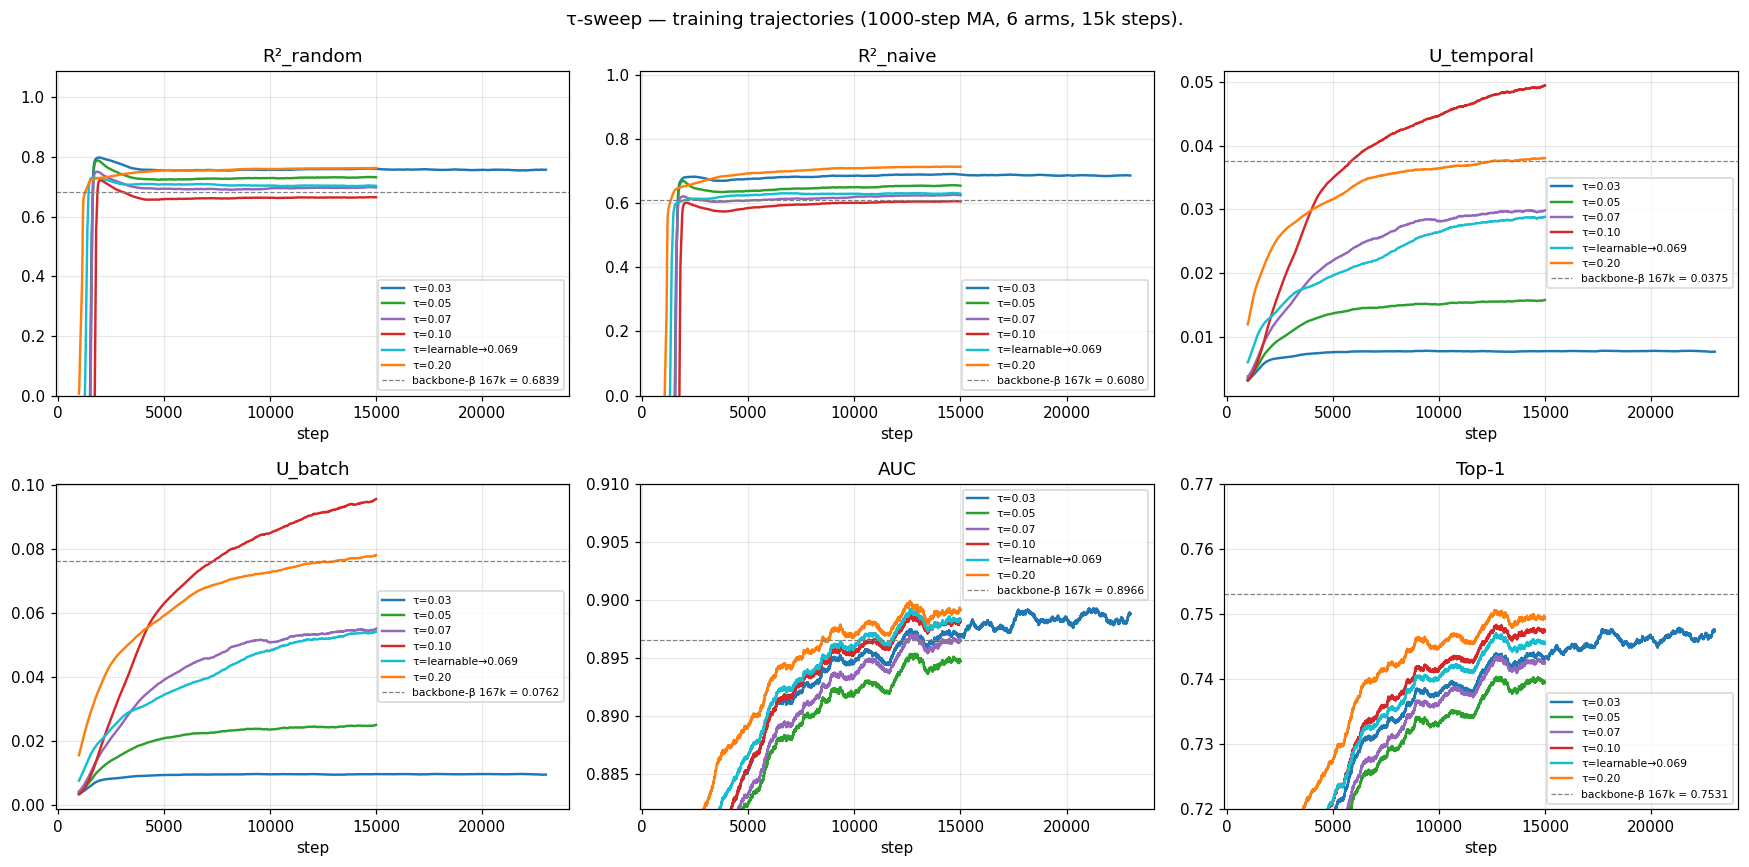
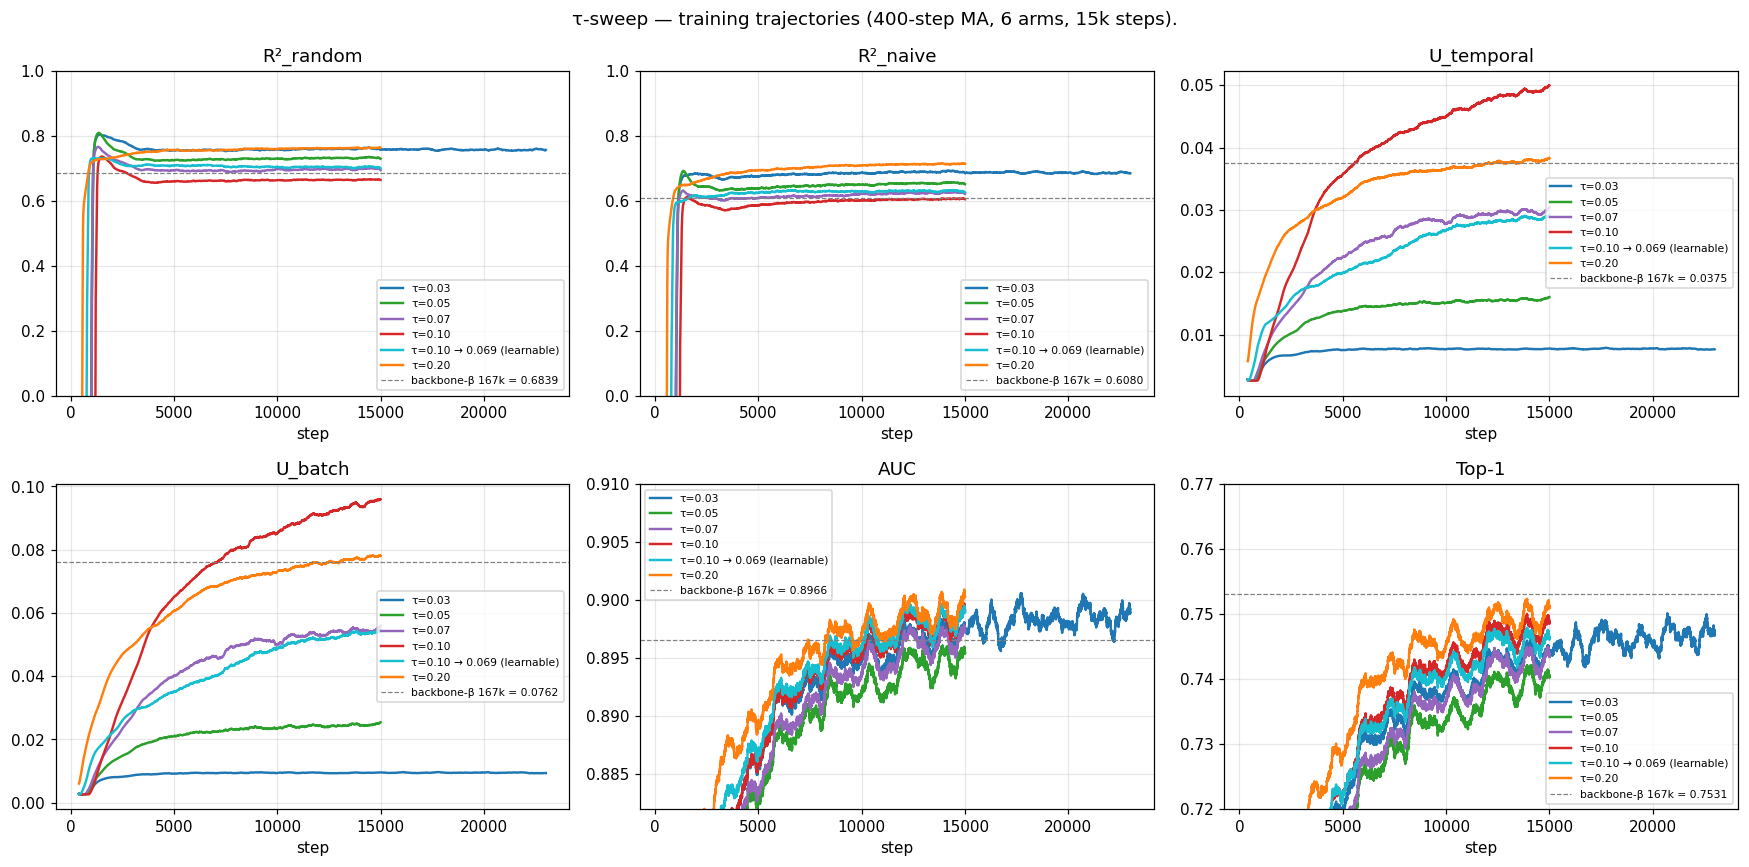
plot(tau-sweep): R² ylim [0,1], 400-step MA, init-first label for learnable τ
- `plot_tau_sweep_multisample.py`: R²_random / R²_naive panels pinned
  to ylim=(0, 1.0) (the natural / interpretable range; previous (0, None)
  left top auto-scaled too tight).
- `plot_tau_sweep_v2.py`: same R² ylim fix; trajectory smoothing reduced
  from 1000-step MA → 400-step MA so finer in-training detail is visible
  (in particular the early R²_random spike for τ=0.20).
- Both plots: learnable-τ arm relabelled `τ=0.10 → 0.069 (learnable)`
  (init value first, converged value after; was `τ=learnable→0.069`).
- CLAUDE.md (Empirical learnings): one-liner — label arms by configured
  input, not measured outcome.
- REMOTE_LAUNCH_CHECKLIST.md: one-liner — data-center host, on-demand
  price (no consumer / spot).
- RESULTS.md: caption updated 1000-step MA → 400-step MA.

«Agent Opus 4.7 (1M context) writing»

diff --git a/experiments/2026-05-08_exp_tau_sweep/scripts/plot_tau_sweep_v2.py b/experiments/2026-05-08_exp_tau_sweep/scripts/plot_tau_sweep_v2.py
@@ -39,7 +39,7 @@ ARMS = [
      SYNC / "tau_sweep_0_07_losses.csv"),
     ("τ=0.10",            "tau_sweep_0_10",           "#d62728",
      SYNC / "tau_sweep_0_10_losses.csv"),
-    ("τ=learnable→0.069", "tau_sweep_learnable_0_10", "#17becf",
+    ("τ=0.10 → 0.069 (learnable)", "tau_sweep_learnable_0_10", "#17becf",
      SYNC_LEARN / "tau_sweep_learnable_0_10_losses.csv"),
     ("τ=0.20",            "tau_sweep_0_20_v2",        "#ff7f0e",
      SYNC_V2 / "tau_sweep_0_20_v2_losses.csv"),
@@ -50,7 +50,7 @@ BETA = dict(r2_random=0.6839, r2_naive=0.6080, u_temporal=0.0375,
             u_batch=0.0762, auc=0.8966, top1=0.7531)
 
 
-def smooth(x, w=1000):
+def smooth(x, w=400):
     if len(x) < w:
         return x
     return np.convolve(x, np.ones(w) / w, mode="valid")
@@ -81,12 +81,13 @@ def main() -> None:
         if t is not None:
             traj[name] = t
 
-    # R² panels pinned to ≥ 0; AUC / Top-1 zoomed for legibility.
+    # R² panels pinned to [0, 1] (natural range). AUC / Top-1 panels zoomed
+    # for legibility.
     metrics = [
-        ("r2_random", "R²_random", (0.0, None), BETA["r2_random"]),
-        ("r2_naive",  "R²_naive",  (0.0, None), BETA["r2_naive"]),
-        ("u_temporal", "U_temporal", None,      BETA["u_temporal"]),
-        ("u_batch",   "U_batch",     None,      BETA["u_batch"]),
+        ("r2_random", "R²_random", (0.0, 1.0), BETA["r2_random"]),
+        ("r2_naive",  "R²_naive",  (0.0, 1.0), BETA["r2_naive"]),
+        ("u_temporal", "U_temporal", None,     BETA["u_temporal"]),
+        ("u_batch",   "U_batch",     None,     BETA["u_batch"]),
         ("auc",       "AUC",        (0.882, 0.910), BETA["auc"]),
         ("top1",      "Top-1",      (0.72, 0.77),   BETA["top1"]),
     ]
@@ -113,7 +114,7 @@ def main() -> None:
         ax.grid(alpha=0.3)
         ax.legend(loc="best", fontsize=7)
     fig.suptitle(
-        "τ-sweep — training trajectories (1000-step MA, 6 arms, 15k steps).",
+        "τ-sweep — training trajectories (400-step MA, 6 arms, 15k steps).",
         fontsize=12)
     fig.tight_layout()
     fig.savefig(OUT_TRAJ, dpi=110, bbox_inches="tight")

diff --git a/experiments/2026-05-08_exp_tau_sweep/scripts/plot_tau_sweep_multisample.py b/experiments/2026-05-08_exp_tau_sweep/scripts/plot_tau_sweep_multisample.py
@@ -36,19 +36,18 @@ ARMS = [
     ("τ=0.05",            "tau_sweep_0_05",           "#2ca02c"),
     ("τ=0.07",            "tau_sweep_0_07",           "#9467bd"),
     ("τ=0.10",            "tau_sweep_0_10",           "#d62728"),
-    ("τ=learnable→0.069", "tau_sweep_learnable_0_10", "#17becf"),
+    ("τ=0.10 → 0.069 (learnable)", "tau_sweep_learnable_0_10", "#17becf"),
     ("τ=0.20",            "tau_sweep_0_20_v2",        "#ff7f0e"),
 ]
 
 BETA = dict(r2_random=0.6839, r2_naive=0.6080, u_temporal=0.0375,
             u_batch=0.0762, auc=0.8966, top1=0.7531)
 
-# (csv_key, title, ylim) — R² panels pinned to ≥ 0 (negative R² is
-# meaningless and would only show up for divergent arms; the scientific
-# range we care about is [0, 1]).
+# R² panels pinned to [0, 1] — the natural / interpretable range. U / AUC
+# / Top-1 panels keep auto-scale on the data.
 METRICS = [
-    ("r2_random",   "R²_random",  (0.0, None)),
-    ("r2_naive",    "R²_naive",   (0.0, None)),
+    ("r2_random",   "R²_random",  (0.0, 1.0)),
+    ("r2_naive",    "R²_naive",   (0.0, 1.0)),
     ("u_temporal",  "U_temporal", None),
     ("u_batch",     "U_batch",    None),
     ("auc",         "AUC",        None),

diff --git a/experiments/REMOTE_LAUNCH_CHECKLIST.md b/experiments/REMOTE_LAUNCH_CHECKLIST.md
@@ -2,6 +2,7 @@
 
 Before launching ANY training on a remote (vast.ai) instance:
 
+- [ ] **Data-center host, on-demand price.** `vastrun-search` without `--prosumer`, `vastrun-provision` without `--spot`. No consumer / spot hosts.
 - [ ] `sync_loop.sh` is running on elisa pulling FROM the remote, AND its first tick has landed the expected files (backbone `.pth`, optimizer `.pth`, head `.pth` if any, losses CSV, run log) in `sync_<run>/checkpoints/` — **verified by `ls`**, not by reading `sync.log` alone.
 
 You can't proceed until the synchronisation is working properly and guaranteed.

diff --git a/experiments/2026-05-08_exp_tau_sweep/RESULTS.md b/experiments/2026-05-08_exp_tau_sweep/RESULTS.md
@@ -83,7 +83,7 @@ not an arm in the sweep.
 
 ![trajectories](plots/tau_sweep_v2_trajectories.png)
 
-6-panel training trajectories (1000-step MA) for all 6 arms. R² panels
+6-panel training trajectories (400-step MA) for all 6 arms. R² panels
 are pinned to ≥ 0; AUC and Top-1 panels are zoomed for legibility.
 **τ=0.10 dominates the in-training AUC and Top-1 trajectory across the
 full 15k window**, with the learnable arm sitting just underneath. AUC

diff --git a/CLAUDE.md b/CLAUDE.md
@@ -6,6 +6,7 @@ Contrastive-forecasting trains small transformer backbones on time series via co
 
 ## Empirical learnings
 - **Never use grad-clip in this project.** Fix divergence via data / normalization, not clipping.
+- **Label arms by their configured input, not their measured outcome.** A learnable-τ arm that drifted to 0.069 from init=0.10 reads as `τ=0.10 → 0.069`, not `τ=0.069`.
 
 ## Code style
 
